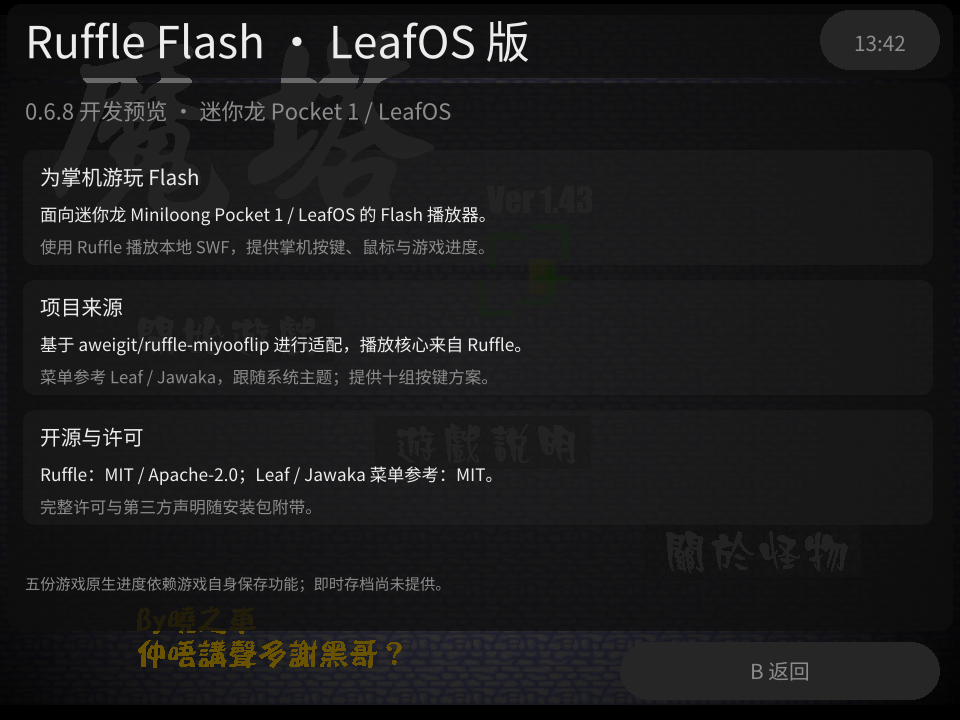
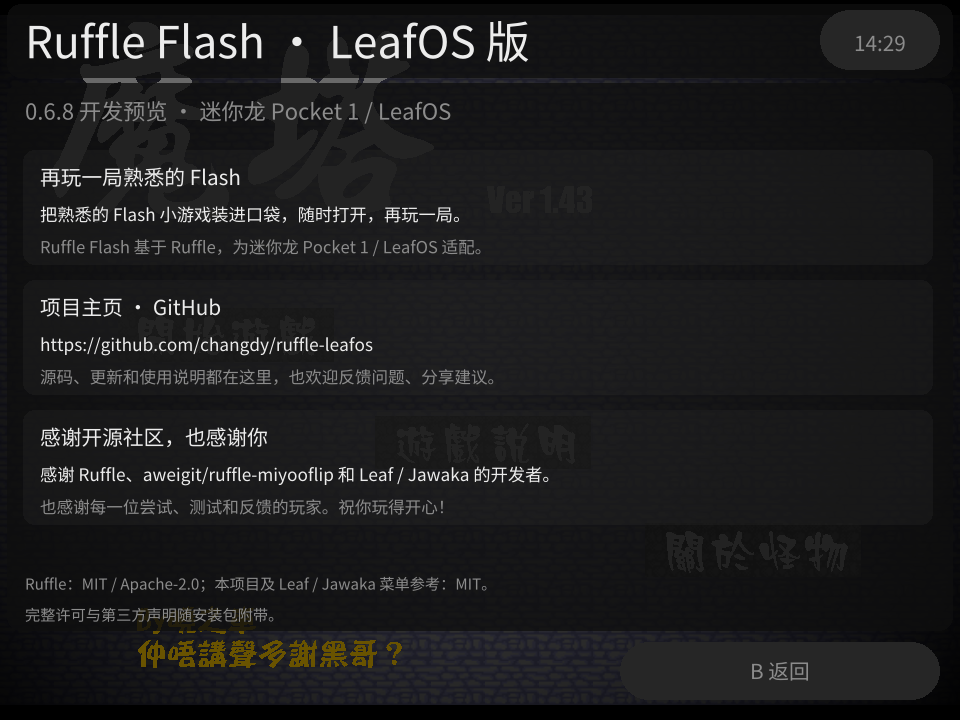
docs: add updated About screenshot and device verification

diff --git a/ruffle-leafos/docs/progress.md b/ruffle-leafos/docs/progress.md
@@ -32,7 +32,8 @@
 
 - 关于页改为“再玩一局熟悉的 Flash”、GitHub 项目主页和社区致谢三部分，使用更自然的项目介绍与玩家寄语；显示完整仓库地址 `https://github.com/changdy/ruffle-leafos`，便于查找源码、更新、使用说明和反馈问题。
 - 版本与开发预览状态、源码来源及开源许可继续展示；原生进度限制仍在 README 与存档页说明。同步 README 的关于文案、主菜单提示及源码锁指纹，版本仍为 0.6.8。
-- **84 项主机回归、ARM64 release 构建和源码锁校验通过**。设备 ADB 可用，但检查时正在运行游戏，本次未打断游戏，未执行新版页面的实机排版与返回操作验证；README 已撤下旧版关于截图，新版截图待补充。此前实机验证结论不扩大到本次改动。
+- **84 项主机回归、ARM64 release 构建和源码锁校验通过**。随后经用户授权保存退出正在运行的游戏，使用提交 `c7dbcee` 对应的构建，在 Miniloong Pocket 1 / Leaf 0.13.0 独立测试目录完成关于页实机核对：项目介绍、完整 GitHub 地址、致谢与底部许可均完整显示；B 返回、重新进入、A 返回及正常退出通过。独立测试前后用户配置、游戏进度和正式安装的播放器 SHA-256 保持一致。
+- 新版 960×720 实机截图已替换 `docs/images/about.png` 并补回 README，未对抓屏画面做裁剪或修饰。见[关于页实机验证摘要](validation/about-refresh-20261025.json)，完整截图与日志在本地 `outputs/about-refresh-20261025/`。本次仅验证关于页及菜单返回操作，不扩大其他功能的验收范围。
 
 ## 已完成
 

diff --git a/ruffle-leafos/README.md b/ruffle-leafos/README.md
@@ -8,15 +8,13 @@ GitHub 仓库：[changdy/ruffle-leafos](https://github.com/changdy/ruffle-leafos
 
 ## 实机截图
 
-以下截图于 2026-10-25 通过 ADB 从迷你龙 Pocket 1 / LeafOS 实机抓取，展示 **0.6.8 开发预览**的实际游戏与菜单界面。游戏画面来自用户安装的 SWF，不随项目分发。
+以下截图于 2026-10-25 通过 ADB 从迷你龙 Pocket 1 / LeafOS 实机抓取，展示 **0.6.8 开发预览**的实际游戏与菜单界面；关于页截图已同步本次文案更新。游戏画面来自用户安装的 SWF，不随项目分发。
 
 | 游戏运行 | 暂停菜单 |
 | --- | --- |
 | ![Ruffle Flash 实际游戏画面](docs/images/gameplay.png) | ![Ruffle Flash 暂停菜单](docs/images/pause-menu.png) |
-
-![十方案按键设置界面](docs/images/controls.png)
-
-关于页文案已更新，见[快捷键说明与关于](#快捷键说明与关于)；新版实机截图待补充。
+| 按键设置 | 关于 |
+| ![十方案按键设置界面](docs/images/controls.png) | ![Ruffle Flash 关于页面：项目介绍、GitHub 地址与开源致谢](docs/images/about.png) |
 
 | 文档 | 负责内容 |
 | --- | --- |
